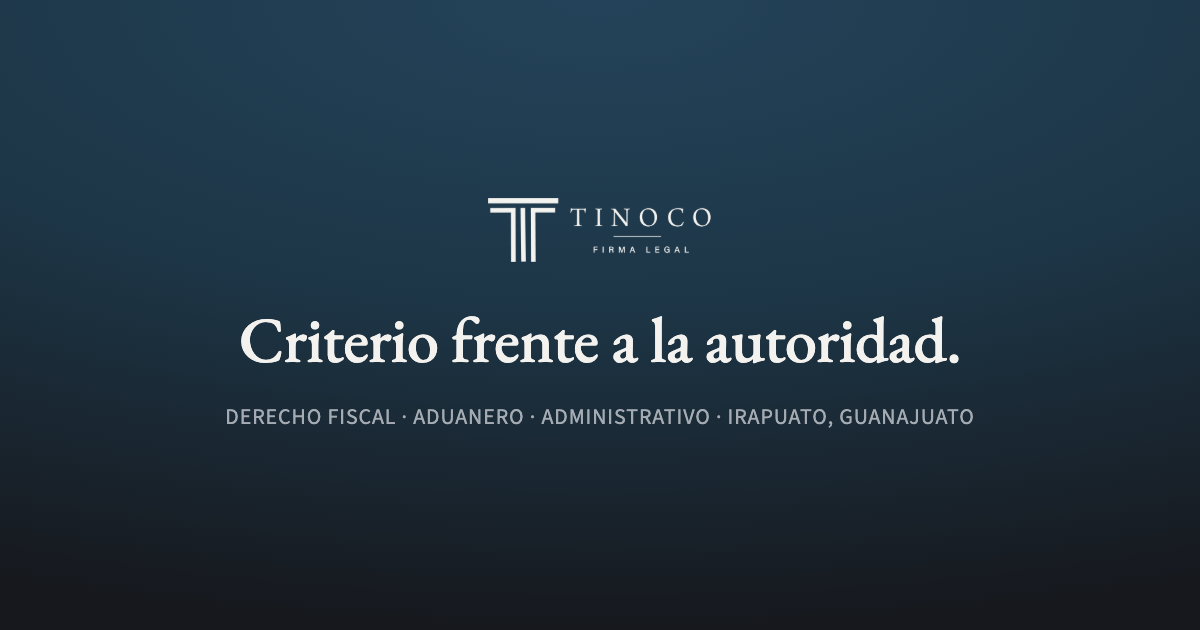
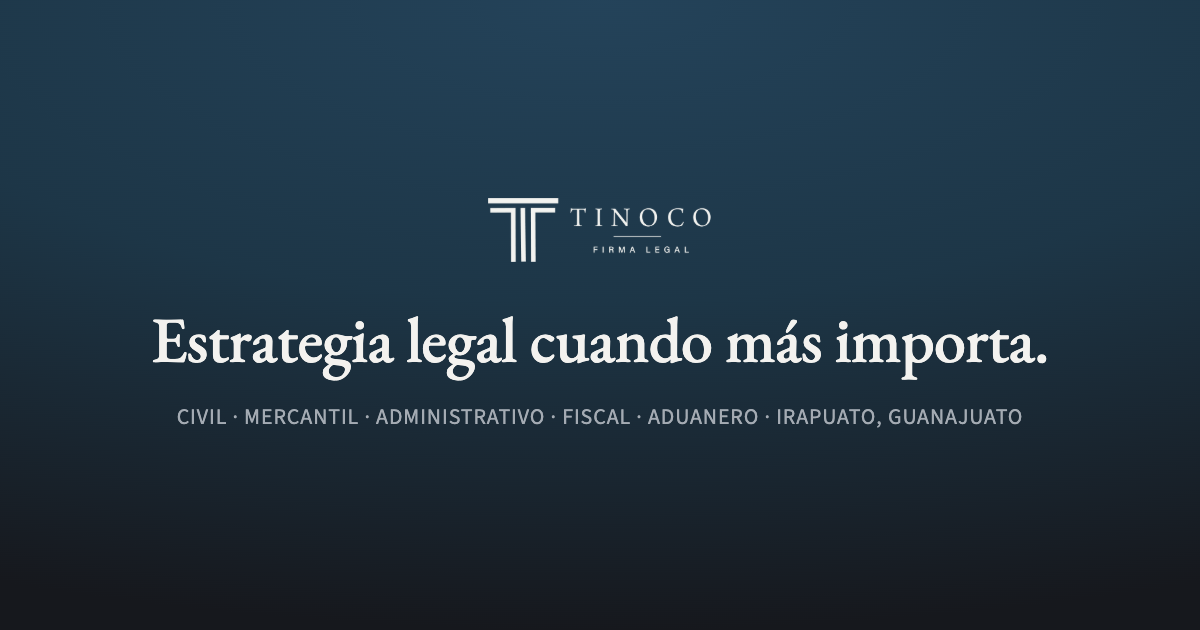
Consistencia: civil y mercantil en todo el sitio, no solo en el hero
Las 3 áreas viejas (administrativo, fiscal, aduanero) quedaban repetidas
y en contradicción con el hero nuevo, que ya menciona las 5. Se actualiza
en todos los lugares donde el sitio afirmaba tener solo 3 áreas:

- areas[] con las 5 áreas, civil y mercantil primero (mismo orden del hero)
- Prosa de 'la firma'
- title, meta description, og:description, twitter:description
- JSON-LD knowsAbout
- llms.txt (intro + lista de áreas)
- Tarjeta de Open Graph regenerada con el mensaje y las 5 áreas

Los textos de Derecho Civil y Derecho Mercantil son un borrador mío,
genéricos y conservadores. Carlos debe revisarlos y ajustarlos a lo que
realmente cubre su práctica antes de darlos por definitivos.

Changed region(s): [[0.1233, 0.4825, 0.8633, 0.6032], [0.1542, 0.6333, 0.8633, 0.6937]]

diff --git a/website/index.html b/website/index.html
@@ -4,26 +4,26 @@
   <meta charset="UTF-8" />
   <meta name="viewport" content="width=device-width, initial-scale=1.0" />
   <meta name="theme-color" content="#1D3647" />
-  <meta name="description" content="Despacho de litigio fiscal, aduanero y administrativo en Irapuato, Guanajuato. Defensa ante el SAT, auditorías, PAMA y recursos de revocación, con atención directa del abogado titular." />
+  <meta name="description" content="Despacho de litigio civil, mercantil, administrativo, fiscal y aduanero en Irapuato, Guanajuato. Defendemos a personas y empresas, con atención directa del abogado titular." />
   <link rel="canonical" href="https://tinoco.legal/" />
   <meta name="apple-mobile-web-app-capable" content="yes" />
   <meta name="apple-mobile-web-app-status-bar-style" content="black-translucent" />
   <link rel="icon" type="image/svg+xml" href="/logo/favicon.svg" />
   <link rel="manifest" href="/manifest.json" />
-  <title>TINOCO · Firma Legal · Derecho Fiscal, Aduanero y Administrativo en Irapuato</title>
+  <title>TINOCO · Firma Legal · Litigio Civil, Mercantil y Fiscal en Irapuato</title>
 
   <meta property="og:type" content="website" />
   <meta property="og:site_name" content="TINOCO · Firma Legal" />
   <meta property="og:url" content="https://tinoco.legal/" />
   <meta property="og:title" content="TINOCO · Firma Legal" />
-  <meta property="og:description" content="Despacho de litigio fiscal, aduanero y administrativo en Irapuato, Guanajuato. Defensa ante el SAT, auditorías, PAMA y recursos de revocación." />
+  <meta property="og:description" content="Despacho de litigio civil, mercantil, administrativo, fiscal y aduanero en Irapuato, Guanajuato. Defendemos a personas y empresas." />
   <meta property="og:image" content="https://tinoco.legal/og/tinoco-legal.png" />
   <meta property="og:image:width" content="1200" />
   <meta property="og:image:height" content="630" />
   <meta property="og:locale" content="es_MX" />
   <meta name="twitter:card" content="summary_large_image" />
   <meta name="twitter:title" content="TINOCO · Firma Legal" />
-  <meta name="twitter:description" content="Despacho de litigio fiscal, aduanero y administrativo en Irapuato, Guanajuato." />
+  <meta name="twitter:description" content="Despacho de litigio civil, mercantil, administrativo, fiscal y aduanero en Irapuato, Guanajuato." />
   <meta name="twitter:image" content="https://tinoco.legal/og/tinoco-legal.png" />
 
   <script type="application/ld+json">
@@ -52,7 +52,7 @@
       "closes": "18:00"
     },
     "priceRange": "$$",
-    "knowsAbout": ["Derecho administrativo", "Derecho fiscal", "Derecho aduanero"]
+    "knowsAbout": ["Derecho civil", "Derecho mercantil", "Derecho administrativo", "Derecho fiscal", "Derecho aduanero"]
   }
   </script>
 

diff --git a/website/src/Website.jsx b/website/src/Website.jsx
@@ -93,9 +93,11 @@ export default function Website() {
   }
 
   const areas = [
-    { num:"I",   title:"Derecho Administrativo", desc:"Recursos y procedimientos ante la autoridad, sanciones y responsabilidades, permisos, licencias y concesiones, juicio contencioso administrativo." },
-    { num:"II",  title:"Derecho Fiscal",         desc:"Defensa frente a créditos fiscales, auditorías y facultades de comprobación, devoluciones y compensaciones, juicio de nulidad y amparo." },
-    { num:"III", title:"Derecho Aduanero",       desc:"Procedimientos en materia aduanera, embargo y regularización de mercancías, clasificación arancelaria, multas y sanciones." },
+    { num:"I",   title:"Derecho Civil",          desc:"Litigio civil, contratos, responsabilidad civil, cobro de deudas, arrendamiento y controversias patrimoniales." },
+    { num:"II",  title:"Derecho Mercantil",      desc:"Contratos y controversias mercantiles, cobro judicial, sociedades, juicio ejecutivo mercantil y concursos mercantiles." },
+    { num:"III", title:"Derecho Administrativo", desc:"Recursos y procedimientos ante la autoridad, sanciones y responsabilidades, permisos, licencias y concesiones, juicio contencioso administrativo." },
+    { num:"IV",  title:"Derecho Fiscal",         desc:"Defensa frente a créditos fiscales, auditorías y facultades de comprobación, devoluciones y compensaciones, juicio de nulidad y amparo." },
+    { num:"V",   title:"Derecho Aduanero",       desc:"Procedimientos en materia aduanera, embargo y regularización de mercancías, clasificación arancelaria, multas y sanciones." },
   ];
 
   const principios = [
@@ -260,7 +262,7 @@ export default function Website() {
               </h3>
               <div className="firma-cols">
                 <p className="firma-p">
-                  Tinoco es una firma legal dedicada al derecho administrativo, fiscal y aduanero. Trabajamos con un principio simple: ningún asunto se delega, se estandariza ni se resuelve con fórmulas. Cada expediente recibe un estudio propio y una estrategia a su medida.
+                  Tinoco es una firma legal dedicada al derecho civil, mercantil, administrativo, fiscal y aduanero. Trabajamos con un principio simple: ningún asunto se delega, se estandariza ni se resuelve con fórmulas. Cada expediente recibe un estudio propio y una estrategia a su medida.
                 </p>
                 <p className="firma-p">
                   Eso permite algo que las estructuras grandes difícilmente ofrecen: interlocución directa con el abogado que lleva el caso, tiempos de respuesta cortos y criterios consistentes de principio a fin.

diff --git a/website/scripts/og-card.html b/website/scripts/og-card.html
@@ -18,7 +18,7 @@
 </head>
 <body>
   <img src="file://__LOGO__" />
-  <h1>Criterio frente a la autoridad.</h1>
-  <p>Derecho Fiscal · Aduanero · Administrativo · Irapuato, Guanajuato</p>
+  <h1>Estrategia legal cuando más importa.</h1>
+  <p>Civil · Mercantil · Administrativo · Fiscal · Aduanero · Irapuato, Guanajuato</p>
 </body>
 </html>
